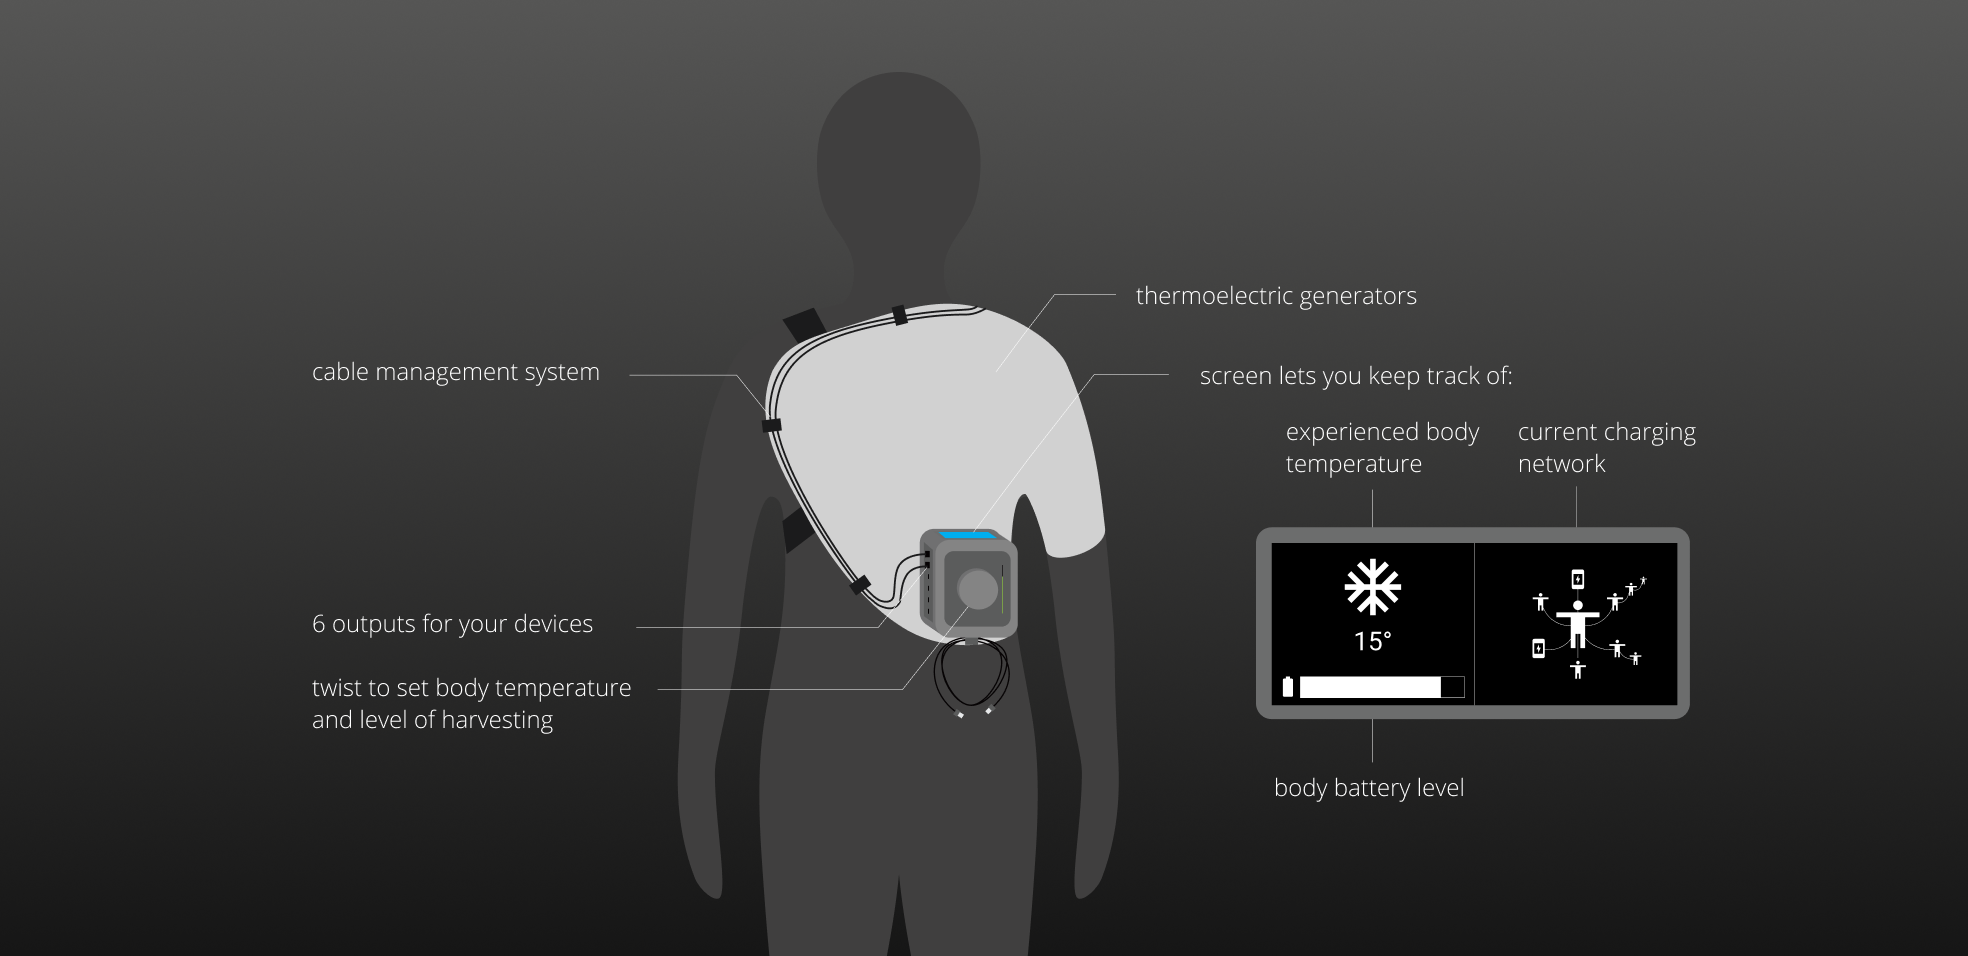
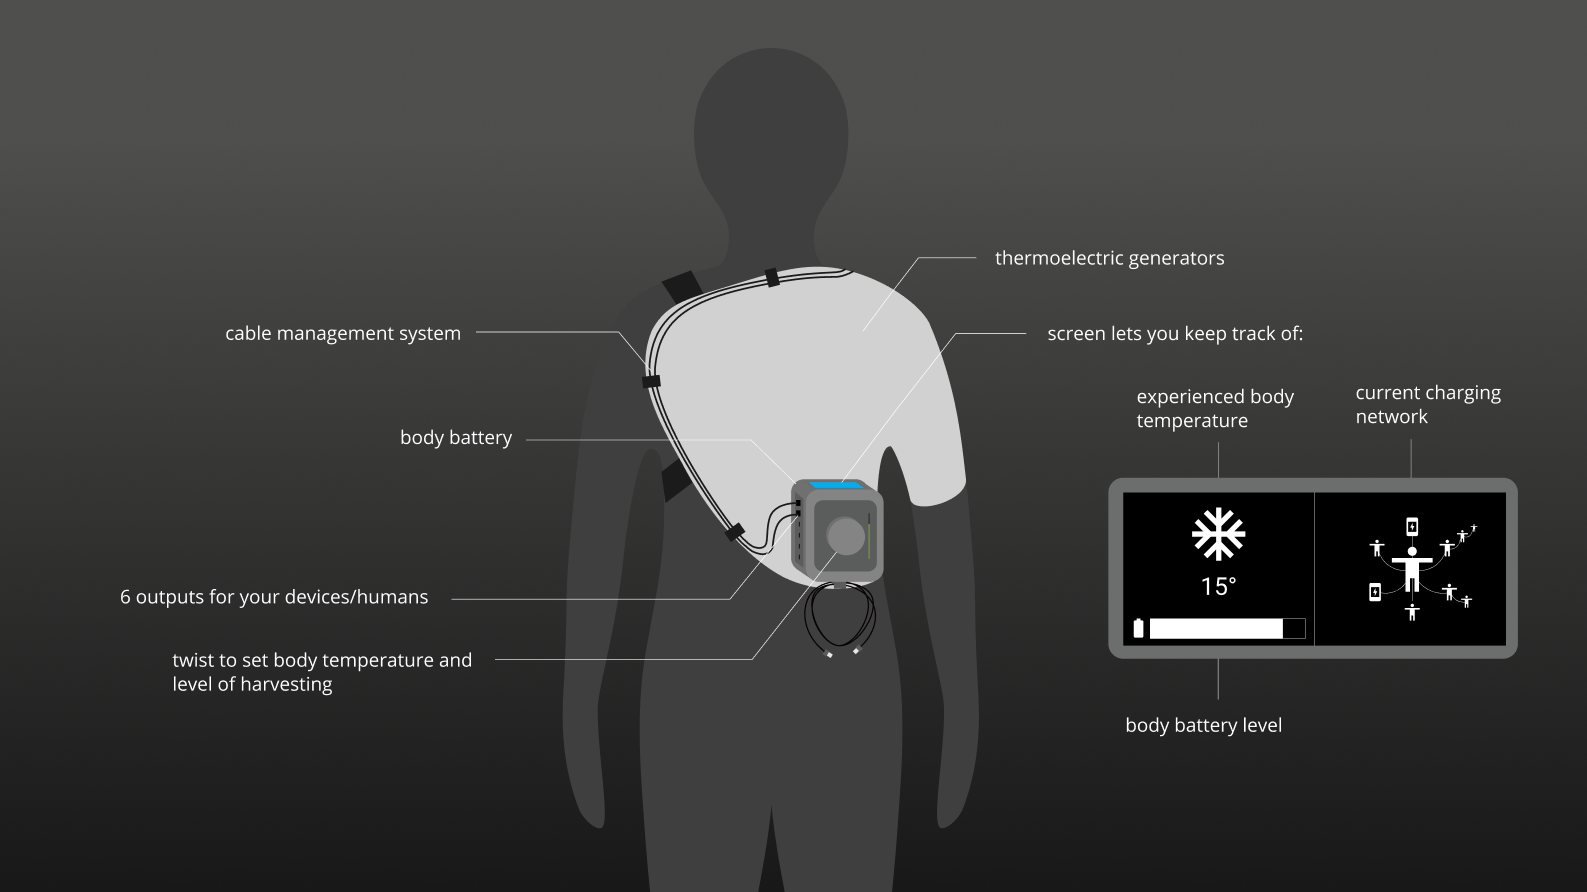
SIte is now even better on phones. Also rewritten all texts

diff --git a/src/site.js b/src/site.js
@@ -110,7 +110,7 @@ class Site extends React.Component {
                 <Component
                   titleVariant="h6"
                   bodyVariant="body2"
-                  title={["Power from your body 🔋"]}
+                  title={["Power electronics with your body 🔋"]}
                   body={[
                     "Every second your body is radiating heat. This vast reserve of energy is wasted - until now. The PEP-device harvests this energy and makes it possible to power electronic devices with body heat. With it you will never go without electricity again. Can you live without you phone? With PEP you don’t have to - your phone will only die if you do.",
                   ]}
@@ -126,13 +126,13 @@ class Site extends React.Component {
                   titleVariant="h6"
                   bodyVariant="body2"
                   title={[
-                    "Charge together 🤝",
                     "Control temperature 🌡",
+                    "Charge together 🤝",
                     "Free electricity ⚡",
                   ]}
                   body={[
+                    "Take control of your body’s resources. For the first time ever you are in charge of the heat you produce. The body battery lets you control how much of your body heat PEP is harvesting.",
                     "Electricity is more fun together. Connect your PEP with friends and family to charge each others power supply. Connected devices can also output more power, increasing possibilities.",
-                    "Take control of your body’s resources. For the first time ever you are in charge of the heat you produce. The body battery knob lets you control how much body heat your PEP is harvesting.",
                     "Why pay for electricity when you are making it for free? With the PEP you become an indie electricity producer in full control of your own power supply. Share it with friends? Sell it back to the grid? You decide!",
                   ]}
                   pic={charging_together}
@@ -166,7 +166,7 @@ class Site extends React.Component {
                   bodyVariant="body2"
                   title={["A future lacking in electricity 🔥"]}
                   body={[
-                    "In a near future electricity will be much harder to come by. As we adapt towards more sustainable means of electricity production we will also end up with less and less electricity to power our devices. But can you imagine a life without the digital comforts of everyday life?",
+                    "As we adapt towards more sustainable means of electricity production we will also end up with less and less electricity to power our devices. Thus, in a near future, electricity will be much harder to come by.  But can you imagine a life without the digital comforts of everyday life?",
                   ]}
                   pic={ice_break}
                   textClass="Component_text_white"
@@ -192,7 +192,7 @@ class Site extends React.Component {
                   bodyVariant="body2"
                   title={["Inherently social 🧑🤝🧑"]}
                   body={[
-                    "PEP is not a product - it is a system - and the more users the more power. By charging together, humans can create beautiful things and power more complex systems. But that's just the beginning. As more and more people join the PEP-collective, the amount of grass root electricity grows and make a positive impact towards a better tomorrow. Bring the power back to the people and live a life that is more social, more economic and with 100% green electricity.",
+                    "PEP is not a product - it is a system - and the more users the more power. By charging together, humans can create beautiful things and power more complex systems. But that's just the beginning. As more and more people join the PEP-collective, the amount of grass root electricity grows and make a positive impact towards a better tomorrow. With a PEP you live a life that is more social, more economic and with 100% green electricity.",
                   ]}
                   pic={happy_town}
                   textClass="Component_text_black"
@@ -210,7 +210,7 @@ class Site extends React.Component {
                     "We are a multidisciplinary think tank obsessed with innovation. With our feet firmly planted in reality and our eyes set on the future we develop socially and environmentally aware solutions for a better tomorrow. We believe that no system is set in stone and through technology and innovation we can change the world. We solve the problems of the future today.",
                   ]}
                   pic={team}
-                  textClass="Component_text_white"
+                  textClass="Component_text_black"
                   align="right"
                 />
               </Fade>

diff --git a/src/Faq.js b/src/Faq.js
@@ -40,24 +40,26 @@ function Faq(props) {
         <Box m={2}>
           <Grid item xs={12}>
             <Typography align="left" style={{ textDecoration: "underline" }}>
-              - What can a PEP charge?
+              - What devices can a PEP charge/power?
             </Typography>
           </Grid>
           <Grid item xs={12}>
             <Typography variant="body2" align="left">
-              Anything. And the more people the more fun!
+              Anything that has a USB-C port. And the more people the more
+              power!
             </Typography>
           </Grid>
         </Box>
         <Box m={2}>
           <Grid item xs={12}>
             <Typography align="left" style={{ textDecoration: "underline" }}>
-              - Can I charge all my electronic devices?
+              - How many devices can i charge at the same time?
             </Typography>
           </Grid>
           <Grid item xs={12}>
             <Typography variant="body2" align="left">
-              You can charge up to 6 devices/humans.
+              You can charge up to 6 devices/humans, its up to you how you want
+              to distribute your electricity.
             </Typography>
           </Grid>
         </Box>

diff --git a/src/Component.js b/src/Component.js
@@ -21,9 +21,9 @@ function Component(props) {
           xs={12}
           style={{
             backgroundImage: `url(${props.pic})`,
-            backgroundSize: "cover",
-            height: "60vh",
-            backgroundPosition: "center",
+            backgroundRepeat: "no-repeat",
+            backgroundSize: "contain",
+            height: "50vh",
           }}
         ></Grid>
         <Grid
